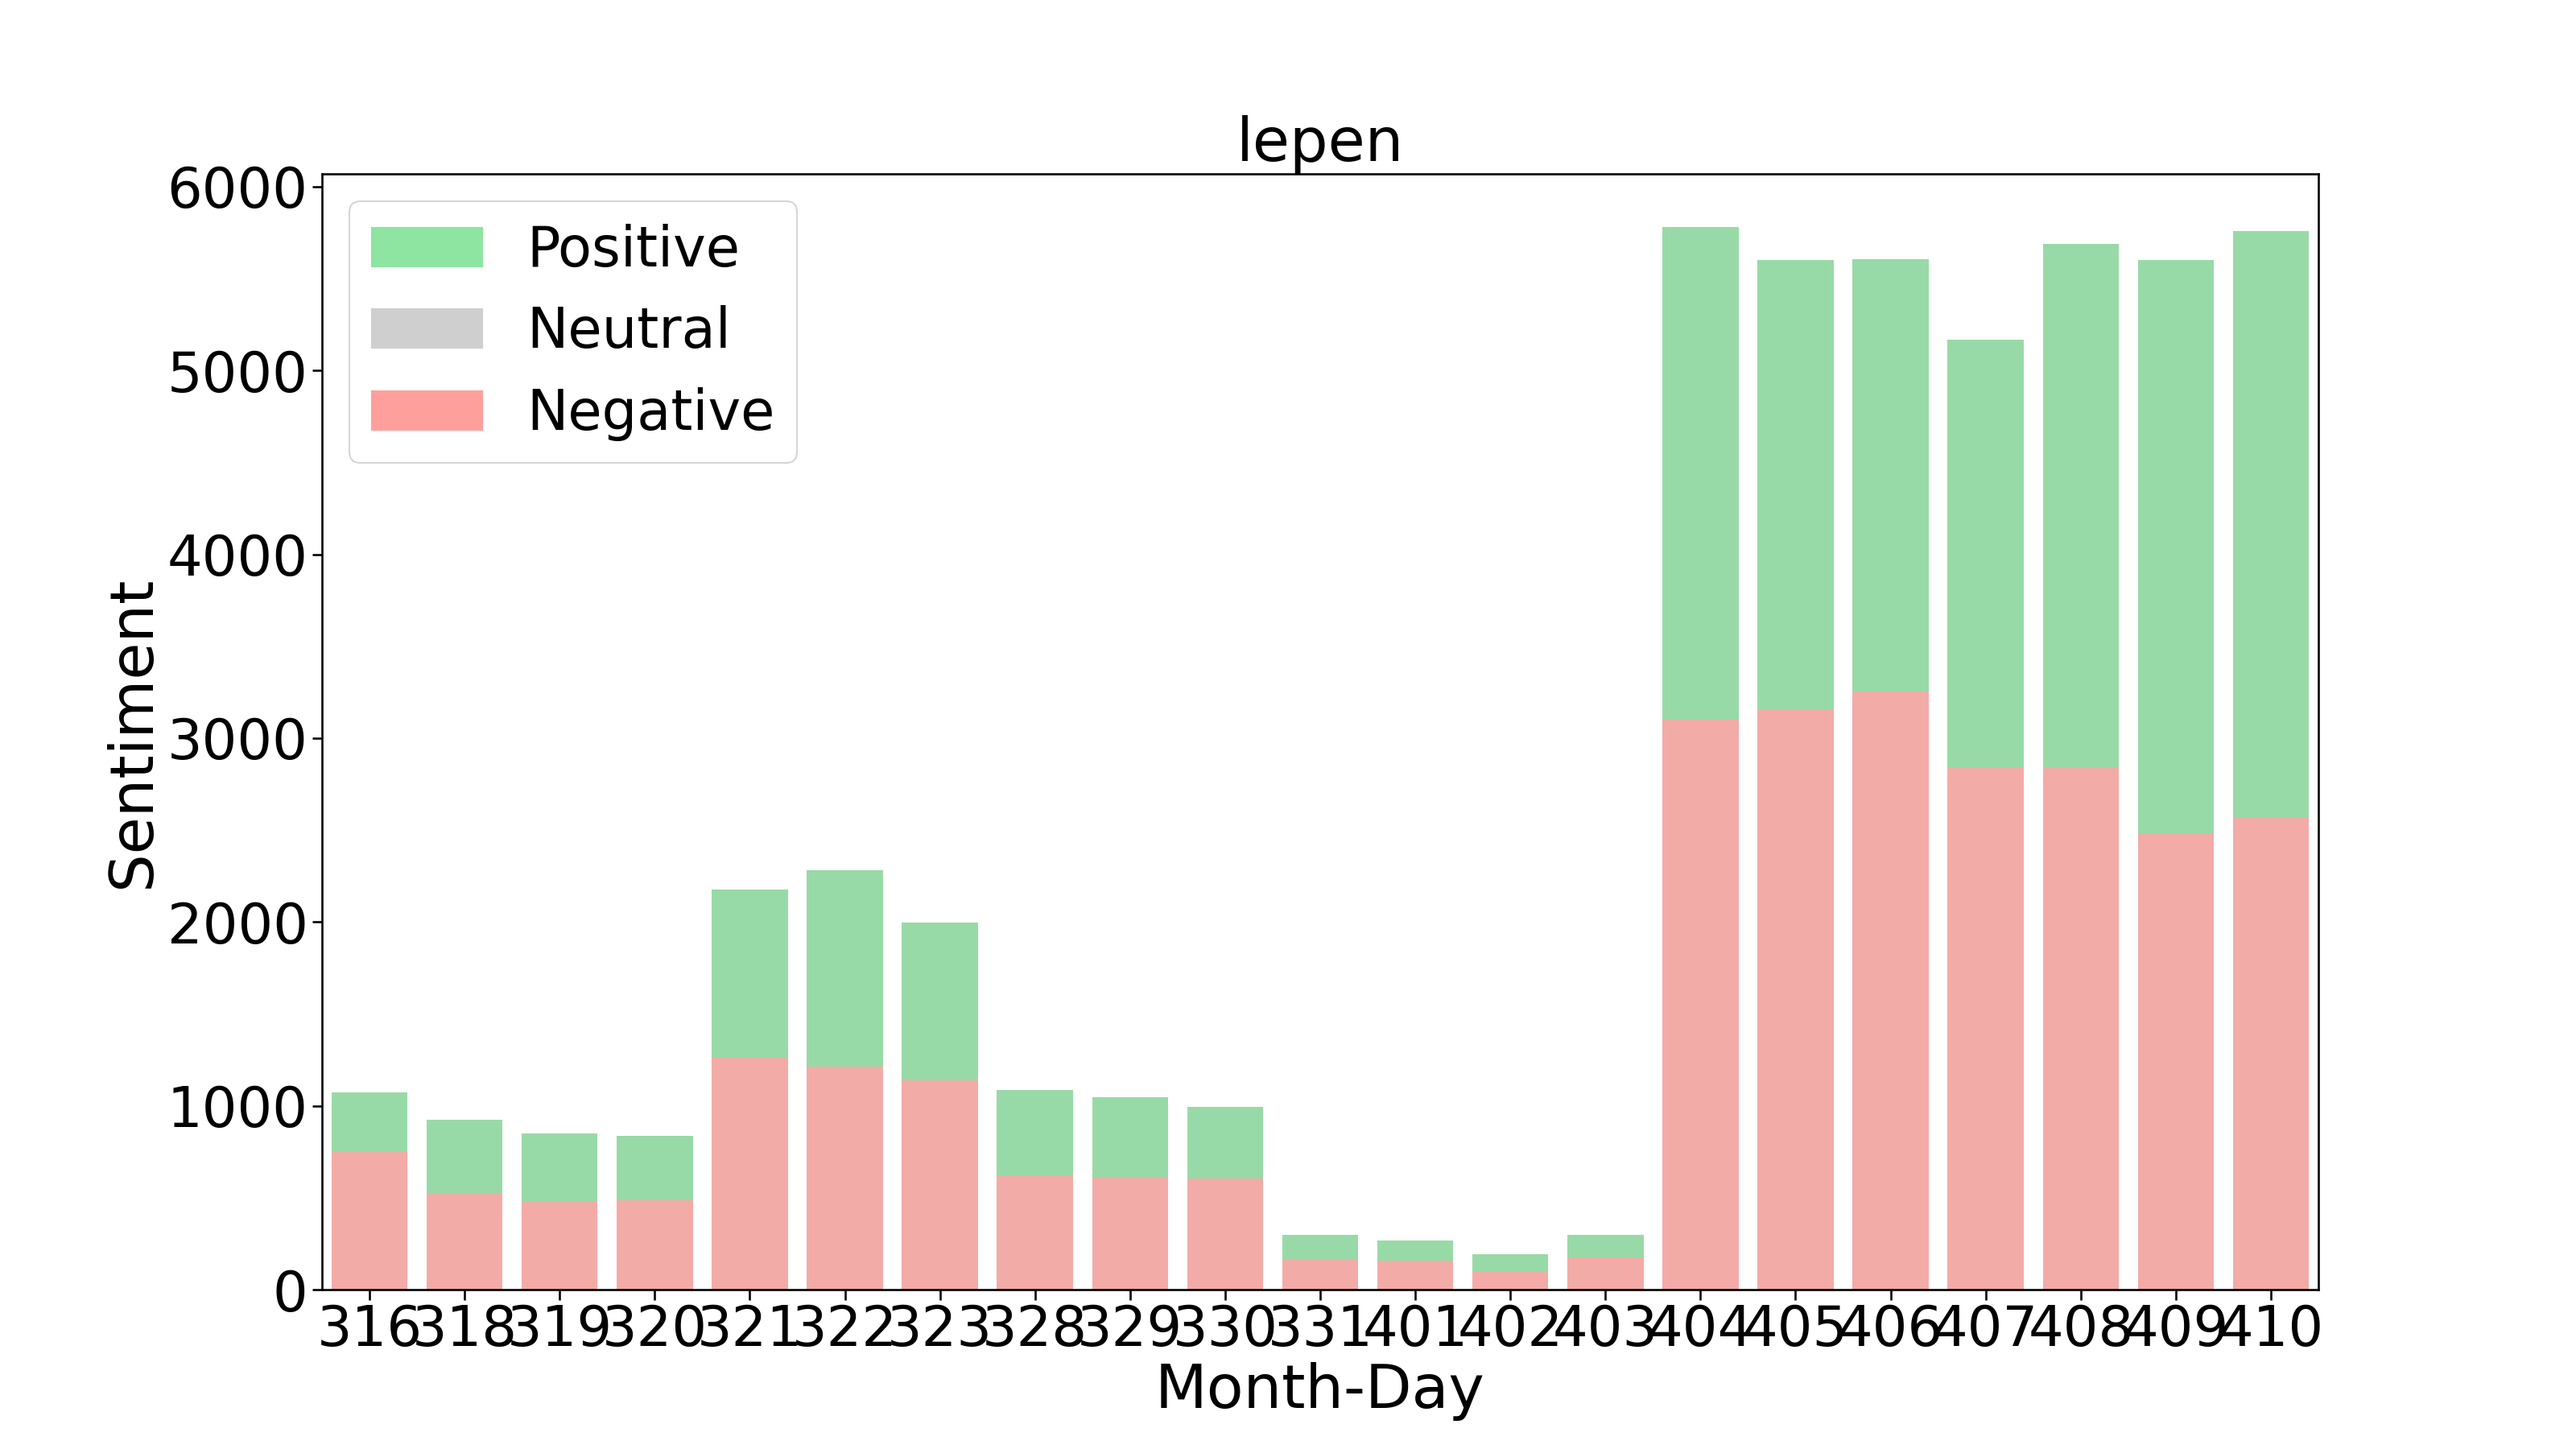
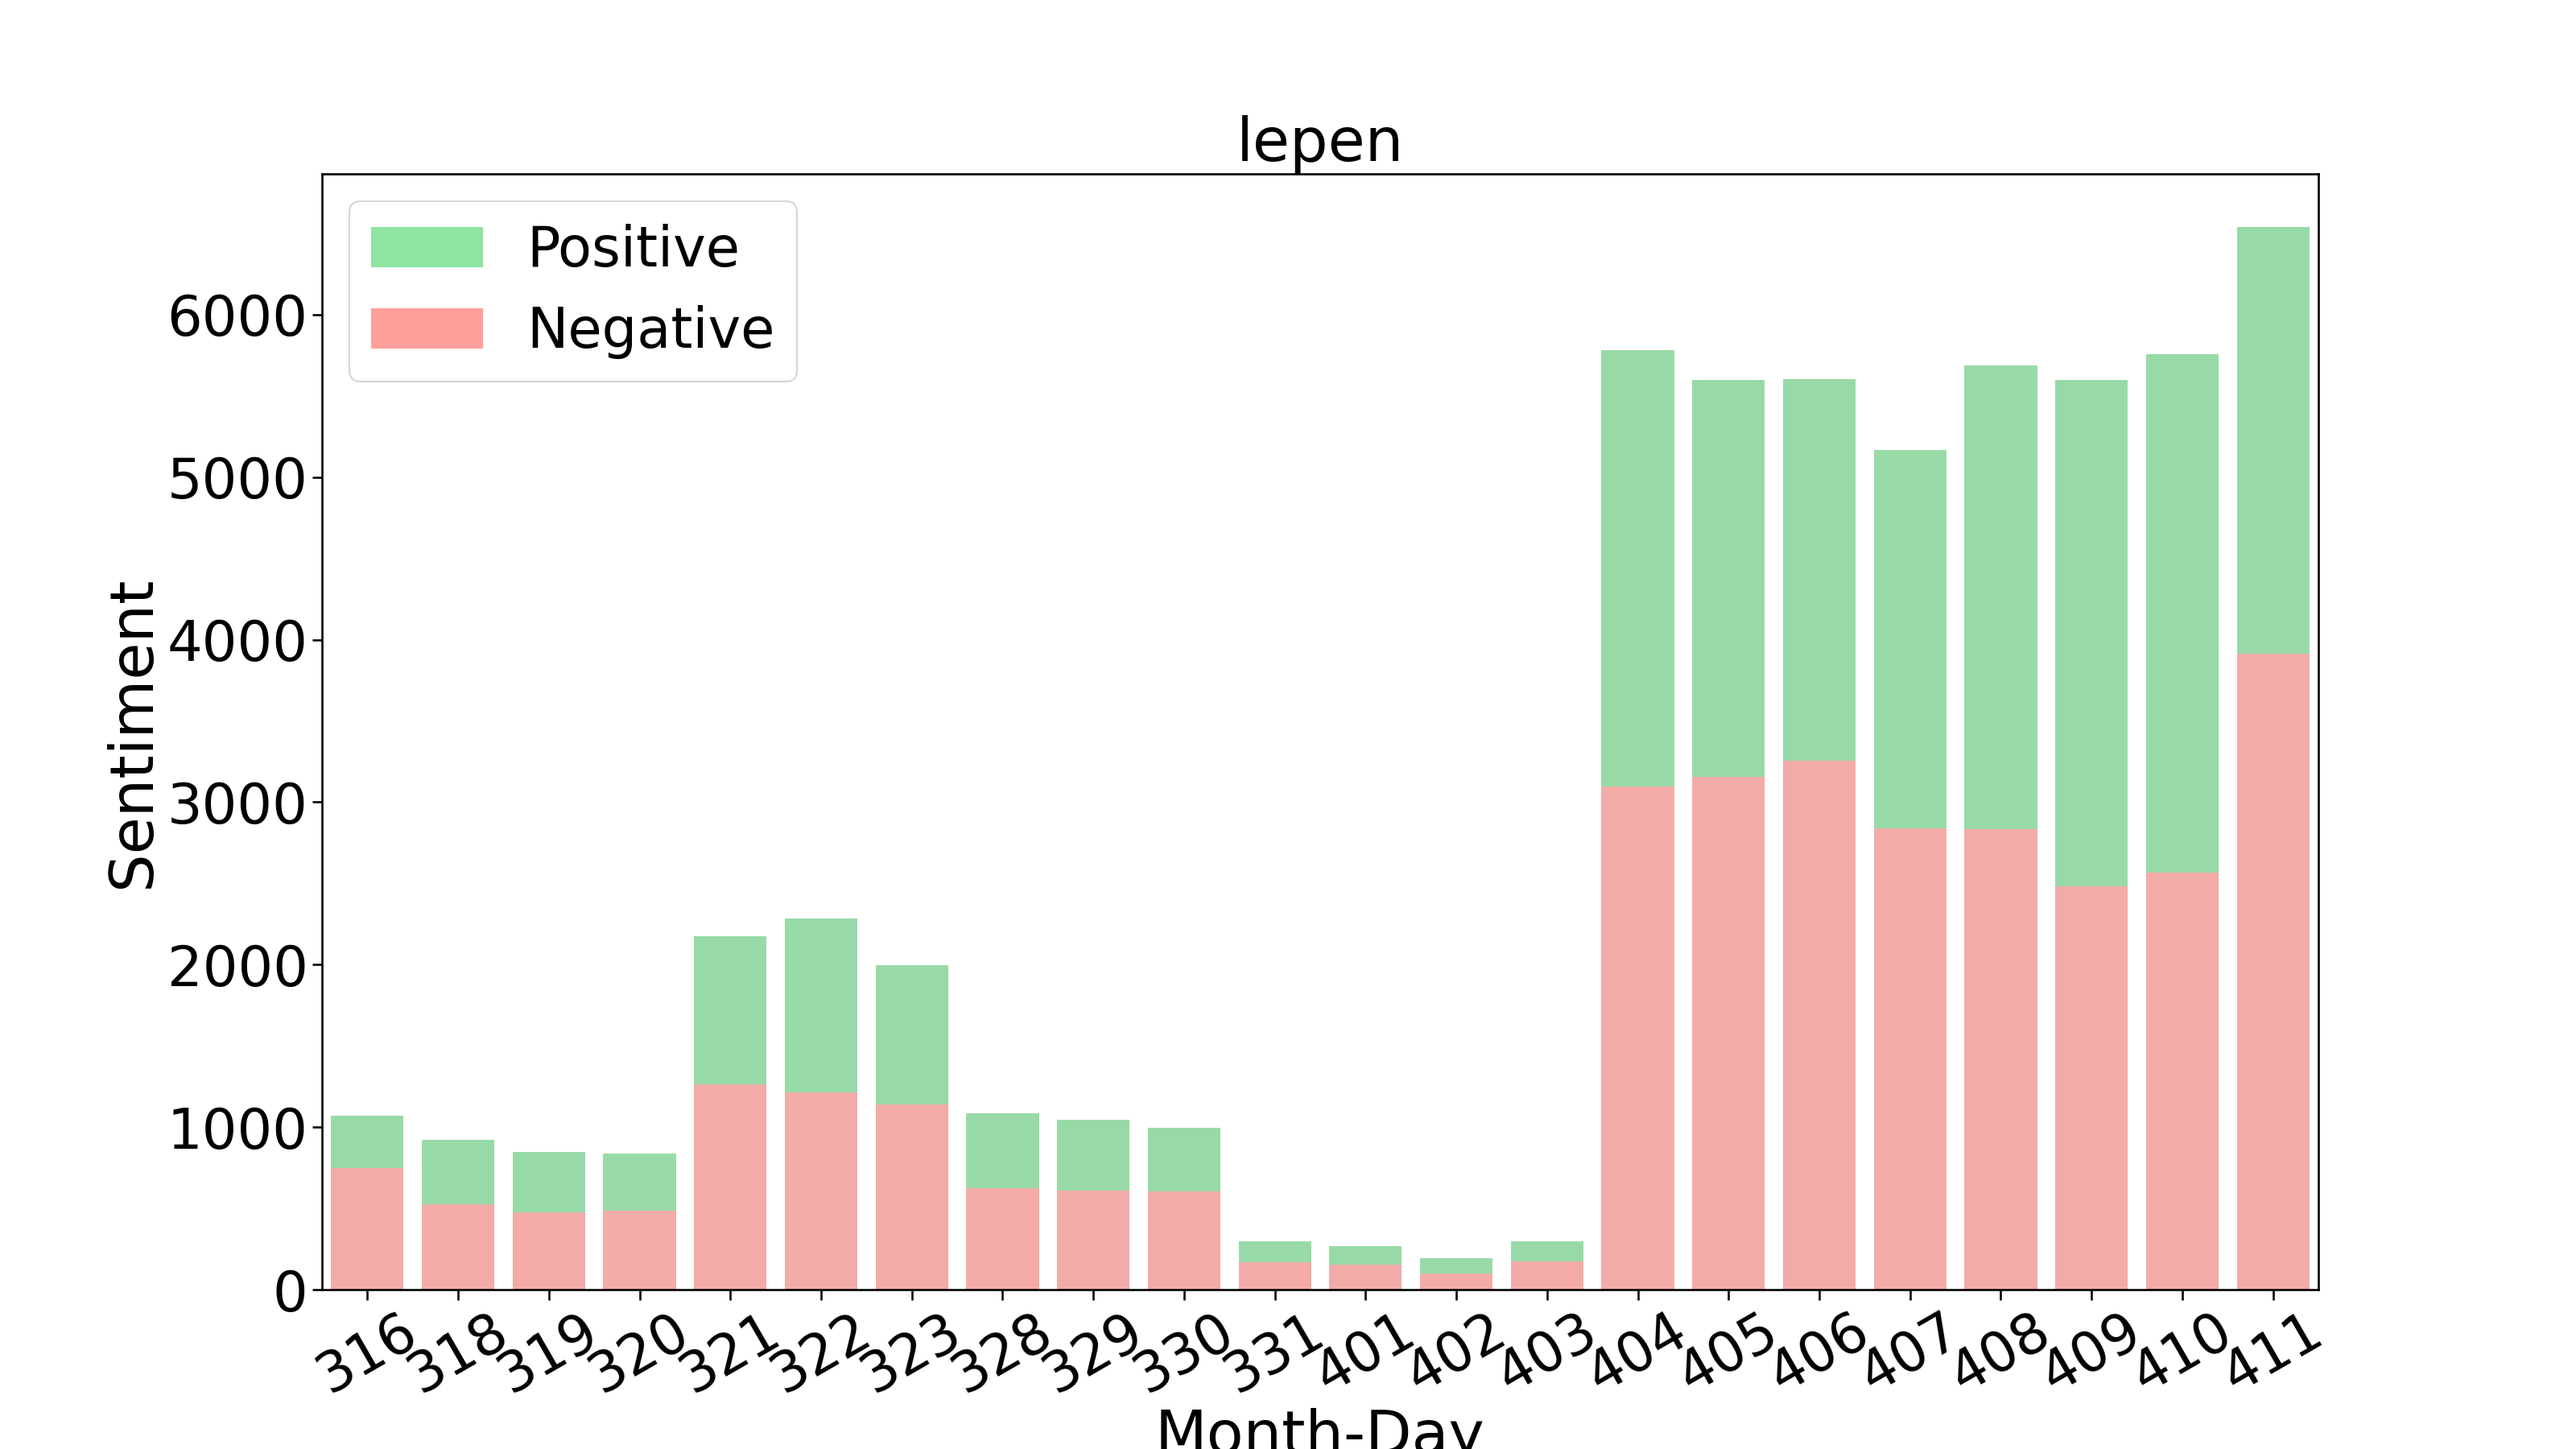
process(data): visuals of 11-04 are done

diff --git a/src/data/download/download_tweets.py b/src/data/download/download_tweets.py
@@ -23,45 +23,53 @@ EXPECTED_KEYS_CREDENTIALS = ['SEARCHTWEETS_ENDPOINT',
                              'SEARCHTWEETS_BEARER_TOKEN',
                              'SEARCHTWEETS_CONSUMER_KEY',
                              'SEARCHTWEETS_CONSUMER_SECRET']
+CANDIDATS = ["Marine Le Pen",
+             "Emmanuel Macron"]
 
-CANDIDATS = ["Valérie Pécresse",
-             "Eric Zemmour",
-             "Nicolas Dupont-Aignan",
-             "Jean-Luc Mélenchon",
-             "Marine Le Pen",
-             "Jean Lassalle",
-             "Anne Hidalgo",
-             "Emmanuel Macron",
-             "Yannick Jadot",
-             "Fabien Roussel",
-             "Nathalie Arthaud",
-             "Philippe Poutou"]
+NOMS = ["Le Pen",
+        "Macron"]
 
-NOMS = ["Pecresse",
-        "Zemmour",
-        "Dupont-Aignan",
-        "Melenchon",
-        "Le Pen",
-        "Lassalle",
-        "Hidalgo",
-        "Macron",
-        "Jadot",
-        "Roussel",
-        "Arthaud",
-        "Poutou"]
+TAGS = {"Le Pen": "@MLP_officiel",
+        "Macron": "@EmmanuelMacron"}
 
-TAGS = {"Pecresse": "@avecValerie",
-        "Zemmour": "@ZemmourEric",
-        "Dupont-Aignan": "@dupontaignan",
-        "Melenchon": "@JLMelenchon",
-        "Le Pen": "@MLP_officiel",
-        "Lassalle": "@jeanlassalle",
-        "Hidalgo": "@Anne_Hidalgo",
-        "Macron": "@EmmanuelMacron",
-        "Jadot": "@yjadot",
-        "Roussel": "@AvecRoussel",
-        "Arthaud": "@n_arthaud",
-        "Poutou": "@PhilippePoutou"}
+# CANDIDATS = ["Valérie Pécresse",
+#              "Eric Zemmour",
+#              "Nicolas Dupont-Aignan",
+#              "Jean-Luc Mélenchon",
+#              "Marine Le Pen",
+#              "Jean Lassalle",
+#              "Anne Hidalgo",
+#              "Emmanuel Macron",
+#              "Yannick Jadot",
+#              "Fabien Roussel",
+#              "Nathalie Arthaud",
+#              "Philippe Poutou"]
+
+# NOMS = ["Pecresse",
+#         "Zemmour",
+#         "Dupont-Aignan",
+#         "Melenchon",
+#         "Le Pen",
+#         "Lassalle",
+#         "Hidalgo",
+#         "Macron",
+#         "Jadot",
+#         "Roussel",
+#         "Arthaud",
+#         "Poutou"]
+
+# TAGS = {"Pecresse": "@avecValerie",
+#         "Zemmour": "@ZemmourEric",
+#         "Dupont-Aignan": "@dupontaignan",
+#         "Melenchon": "@JLMelenchon",
+#         "Le Pen": "@MLP_officiel",
+#         "Lassalle": "@jeanlassalle",
+#         "Hidalgo": "@Anne_Hidalgo",
+#         "Macron": "@EmmanuelMacron",
+#         "Jadot": "@yjadot",
+#         "Roussel": "@AvecRoussel",
+#         "Arthaud": "@n_arthaud",
+#         "Poutou": "@PhilippePoutou"}
 
 
 # ########################################################################### #

diff --git a/src/visualization/time/save_figure.py b/src/visualization/time/save_figure.py
@@ -34,11 +34,12 @@ def make_and_save_figure(candidate, df, relative=True):  # load dataset
         color = dic["color"]
         total_1 = df.groupby('day')[column].sum().reset_index()
         bar1 = sns.barplot(x="day",  y=column, data=total_1, color=color)
+        bar1.set_xticklabels(bar1.get_xticklabels(), rotation = 30)
 
     top_bar = mpatches.Patch(color=c_pos, label='Positive')
-    mid_bar = mpatches.Patch(color=c_net, label='Neutral')
+    # mid_bar = mpatches.Patch(color=c_net, label='Neutral')
     bot_bar = mpatches.Patch(color=c_neg, label='Negative')
-    plt.legend(handles=[top_bar, mid_bar, bot_bar])
+    plt.legend(handles=[top_bar, bot_bar])
 
     plt.xlabel("Month-Day")
     plt.ylabel("Sentiment")
